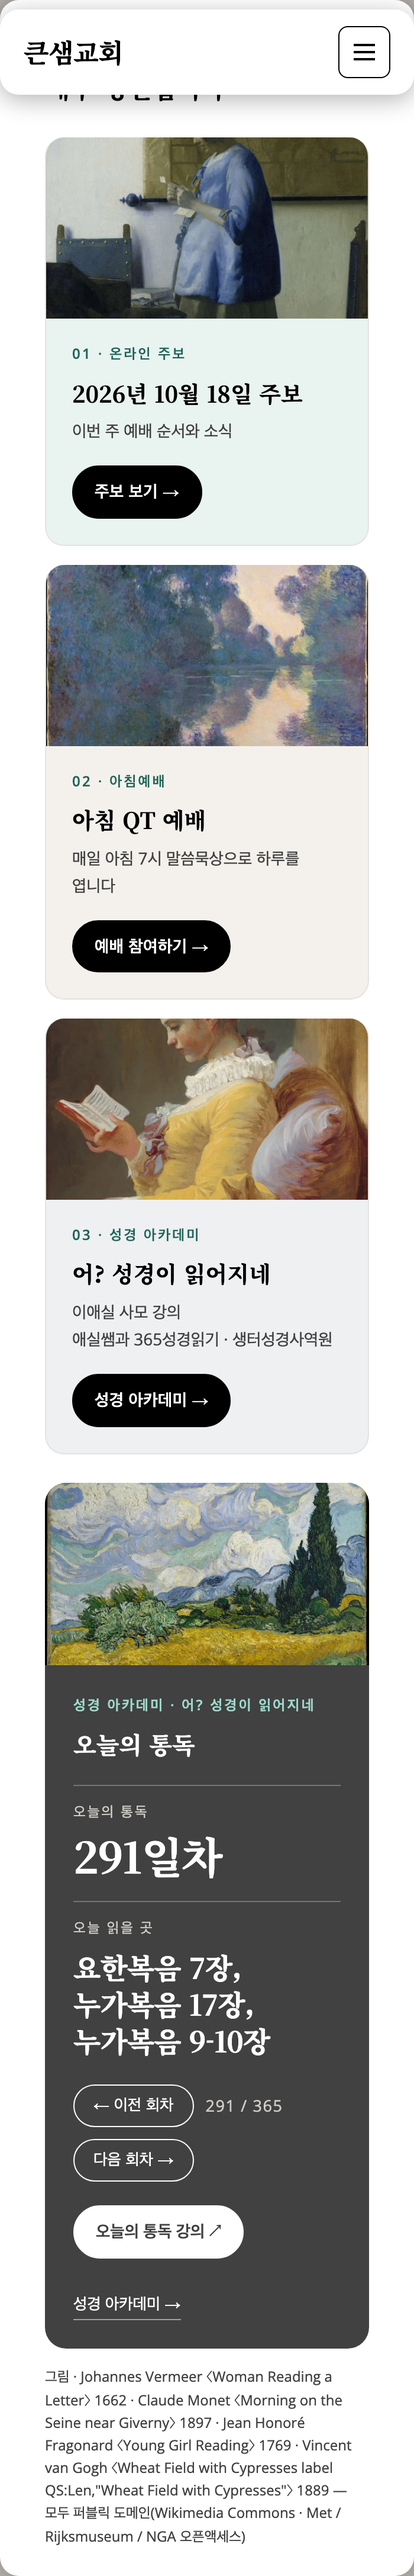
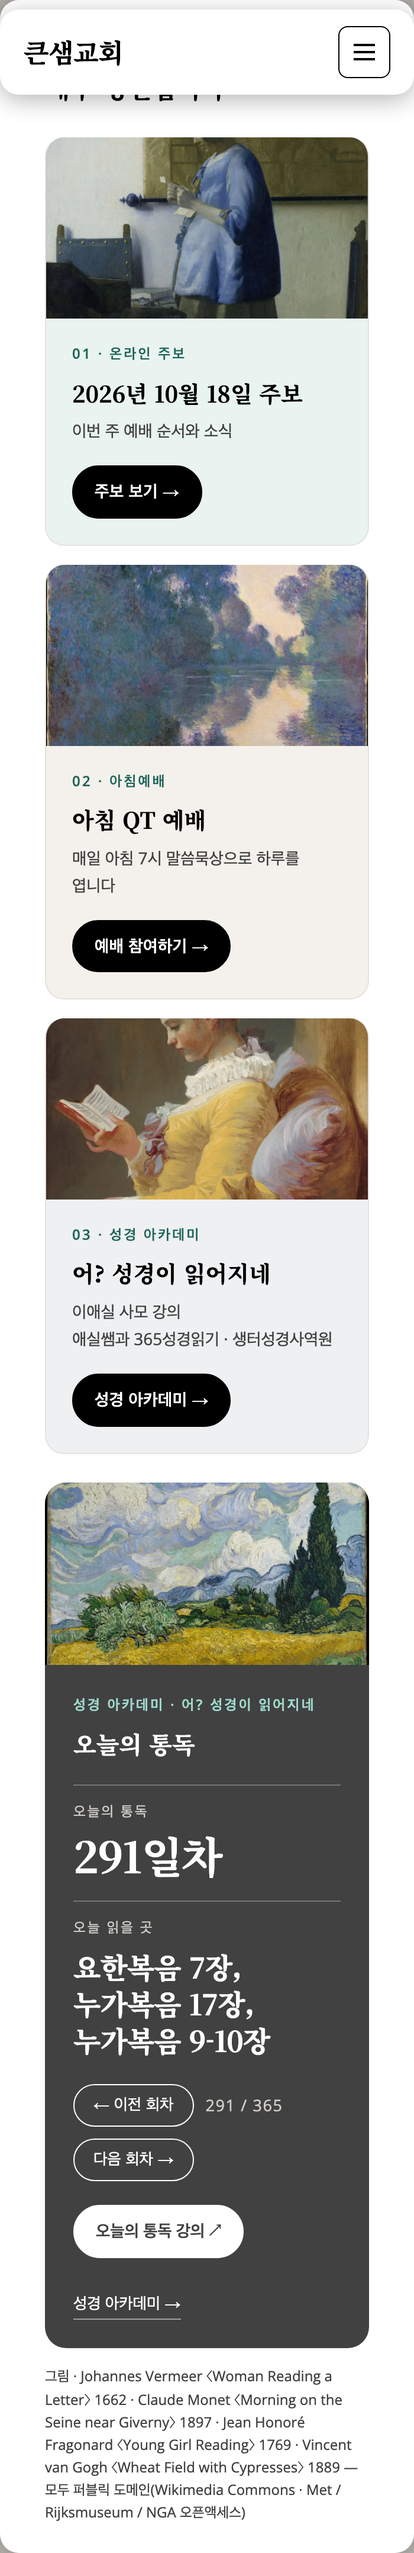
시안 v1 · 그림 설명(alt·크레딧) 제목 정리

diff --git a/_draft/홈_이번주_v1.html b/_draft/홈_이번주_v1.html
@@ -339,13 +339,13 @@ gtag('js',new Date());gtag('config','G-HBE29Z8PJJ');gtag('config','AW-1848710362
       <div class="wk-card__body"><span class="num">03 · 성경 아카데미</span><h3>어? 성경이 읽어지네</h3><p>이애실 사모 강의<br>애실쌤과 365성경읽기 · 생터성경사역원</p><a class="wk-btn" href="아카데미.html">성경 아카데미 →</a></div></article>
   </div>
   <div class="td-panel reveal">
-    <figure><img src="/_draft/img/reading.webp" width="1200" height="675" loading="lazy" alt="Vincent van Gogh, 〈Wheat Field with Cypresses label QS:Len,"Wheat Field with Cypresses"〉 (1889) · CC0" title="Vincent van Gogh, 〈Wheat Field with Cypresses label QS:Len,"Wheat Field with Cypresses"〉 (1889) · CC0"></figure>
+    <figure><img src="/_draft/img/reading.webp" width="1200" height="675" loading="lazy" alt="Vincent van Gogh, 〈Wheat Field with Cypresses〉 (1889) · CC0" title="Vincent van Gogh, 〈Wheat Field with Cypresses〉 (1889) · CC0"></figure>
     <div class="td-panel__body"><span class="eyebrow">성경 아카데미 · 어? 성경이 읽어지네</span><h3>오늘의 통독</h3>
       <div class="reading__now"><div><span>오늘의 통독</span><b id="td-day">291일차</b></div><div><span>오늘 읽을 곳</span><b id="td-ref">요한복음 7장, 누가복음 17장, 누가복음 9-10장</b></div></div>
       <div class="reading__nav"><button type="button" id="td-prev">← 이전 회차</button><span id="td-pos">291 / 365</span><button type="button" id="td-next">다음 회차 →</button></div>
       <div class="reading__links"><a class="wk-btn" id="td-video" href="https://www.youtube.com/watch?v=62_GWt6YyAE" target="_blank" rel="noopener">오늘의 통독 강의 ↗</a><a class="text-link" href="아카데미.html">성경 아카데미 →</a></div></div>
   </div>
-  <p class="wk-credit">그림 · Johannes Vermeer 〈Woman Reading a Letter〉 1662 · Claude Monet 〈Morning on the Seine near Giverny〉 1897 · Jean Honoré Fragonard 〈Young Girl Reading〉 1769 · Vincent van Gogh 〈Wheat Field with Cypresses label QS:Len,"Wheat Field with Cypresses"〉 1889 — 모두 퍼블릭 도메인(Wikimedia Commons · Met / Rijksmuseum / NGA 오픈액세스)</p>
+  <p class="wk-credit">그림 · Johannes Vermeer 〈Woman Reading a Letter〉 1662 · Claude Monet 〈Morning on the Seine near Giverny〉 1897 · Jean Honoré Fragonard 〈Young Girl Reading〉 1769 · Vincent van Gogh 〈Wheat Field with Cypresses〉 1889 — 모두 퍼블릭 도메인(Wikimedia Commons · Met / Rijksmuseum / NGA 오픈액세스)</p>
 </div></section>
 <!-- 근거: 시안R3_B sermons 블록 · ①latest.json ②③ master 회신: jubo 실값 문자 그대로 -->
 <section id="sermons" class="reveal section section--line" data-block="sermons"><div class="wrap">
